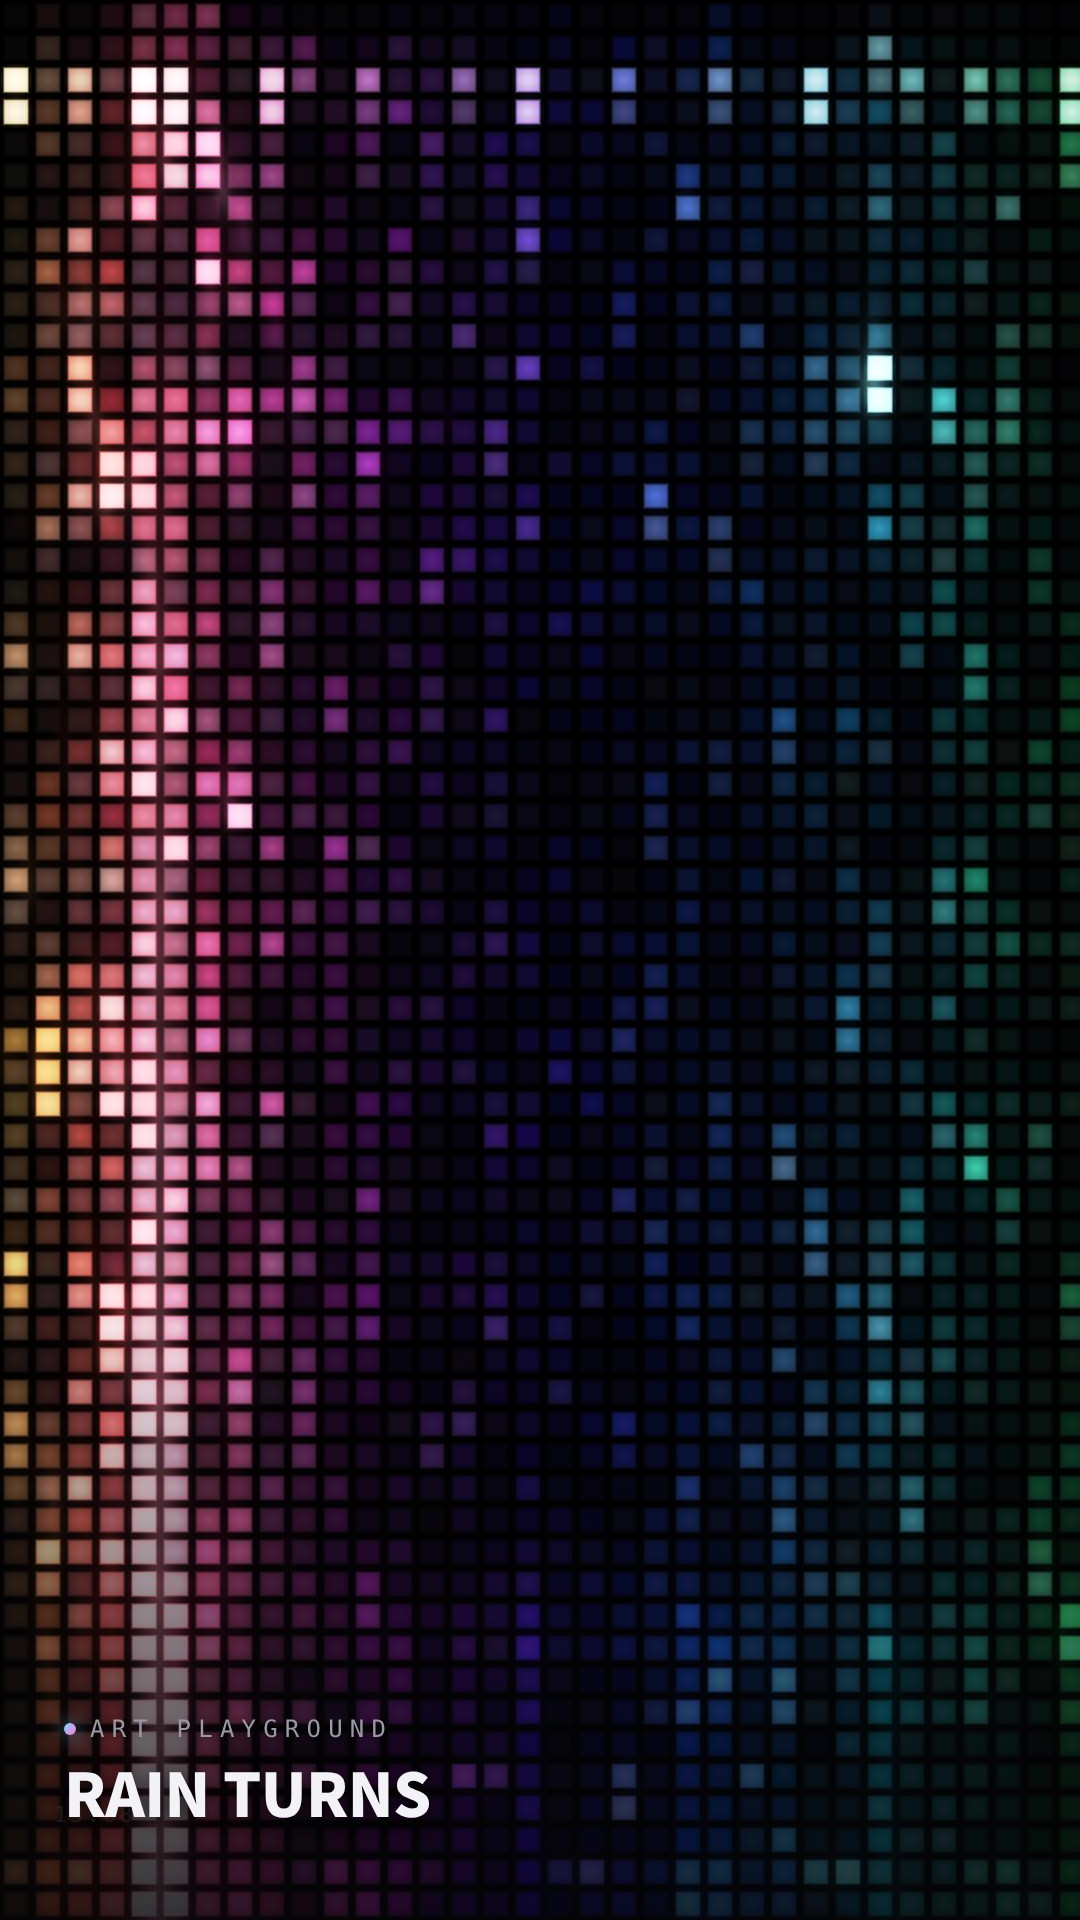
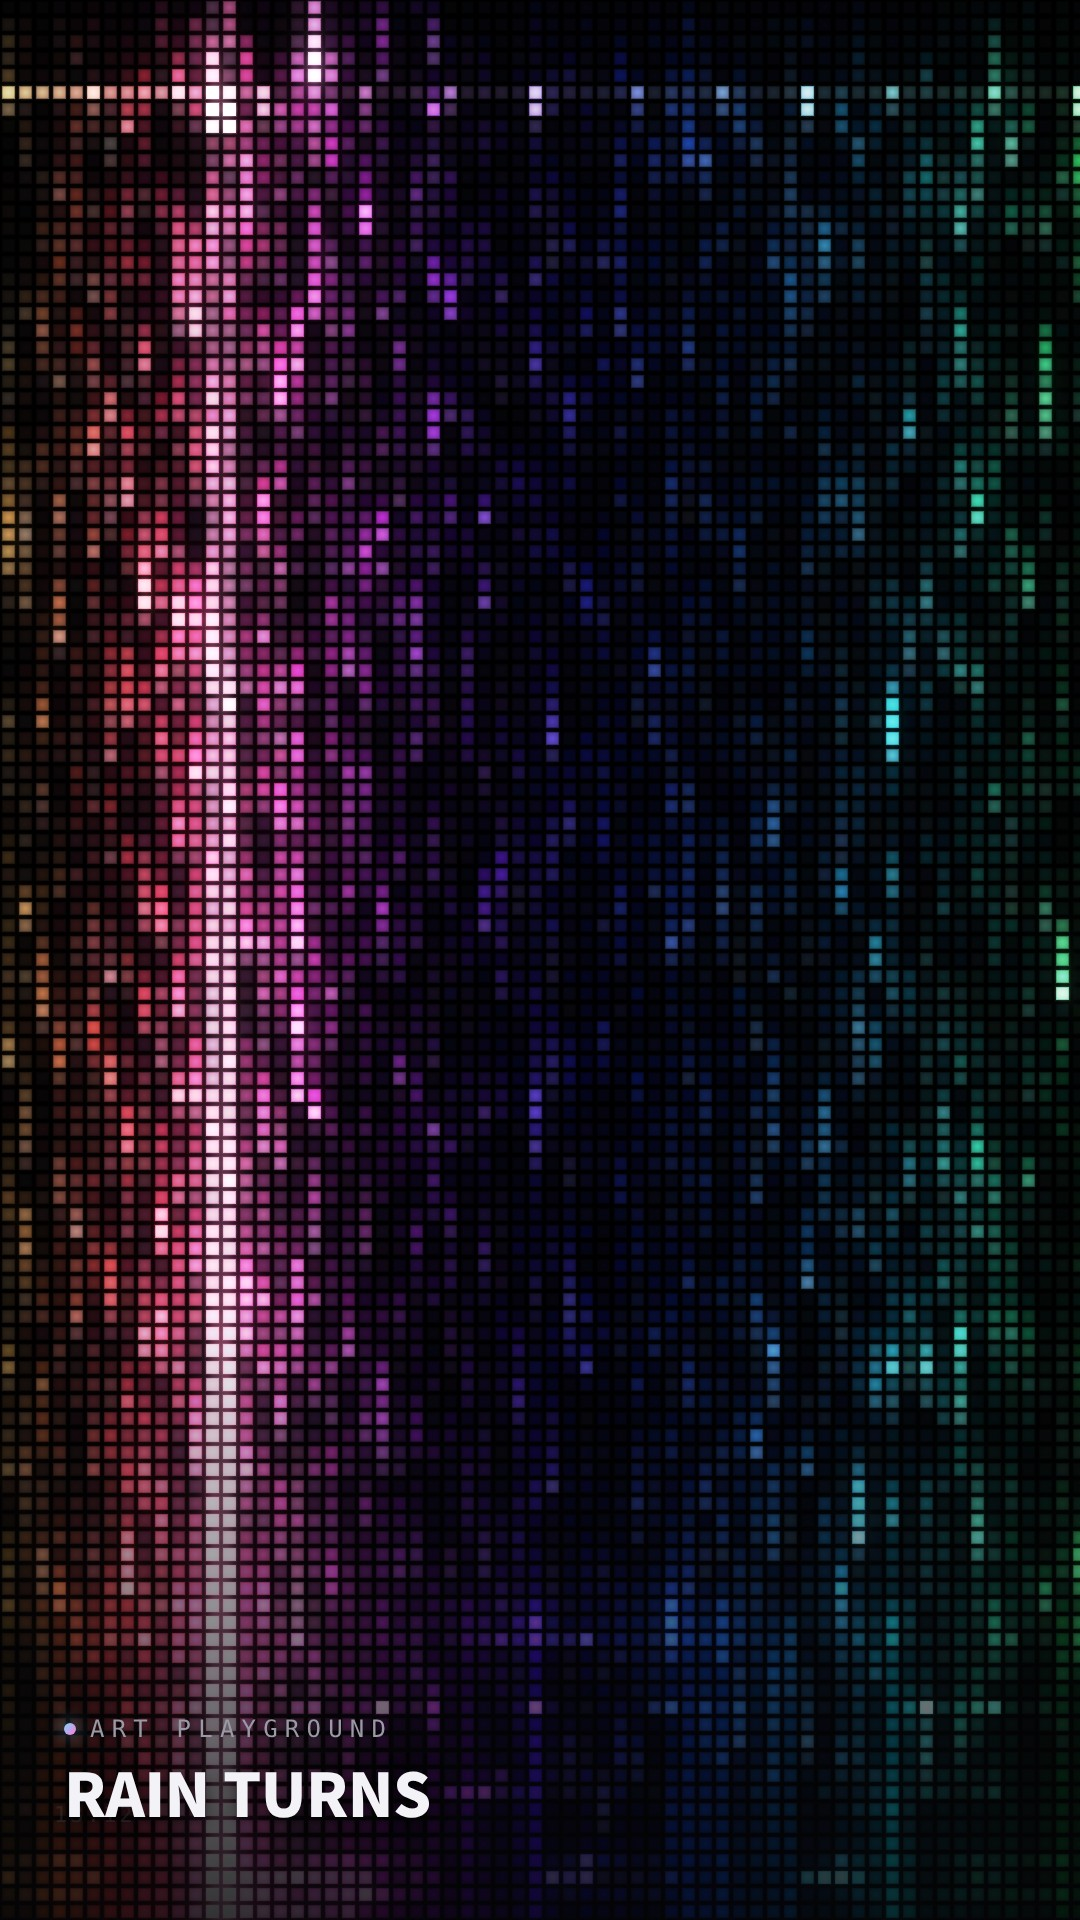
RAIN TURNS: remove dual (composite) grain mode
Restore art-v128-rain-turns.html to the pre-dual version.

Claude-Session: https://claude.ai/code/session_019C65K2NCmDDLr2MsA9MRnb

diff --git a/art-v128-rain-turns.html b/art-v128-rain-turns.html
@@ -198,7 +198,7 @@ FS_HEAD+'uniform sampler2D u_tex;uniform vec2 u_step,u_inv;uniform float u_thr;o
 ' s+=(f(texture(u_tex,uv+u_step*4.).rgb)+f(texture(u_tex,uv-u_step*4.).rgb))*.016;\n'+
 ' o=vec4(s,1.);}');
 var compP=prog('#version 300 es\nlayout(location=0) in vec2 p;void main(){gl_Position=vec4(p,0.,1.);}',
-FS_HEAD+'uniform sampler2D u_a,u_b,u_c,u_m,u_l,u_l2;uniform vec2 u_inv;uniform float u_cell2,u_dual,u_cell,u_led,u_mk,u_hue,u_t,u_mf,u_top,u_px;out vec4 o;\n'+COMMON+
+FS_HEAD+'uniform sampler2D u_a,u_b,u_c,u_m,u_l;uniform vec2 u_inv;uniform float u_cell,u_led,u_mk,u_hue,u_t,u_mf,u_top,u_px;out vec4 o;\n'+COMMON+
 'float hsh(vec2 p){return fract(sin(dot(p,vec2(127.1,311.7)))*43758.5453);}\n'+
 'void main(){vec2 uv=gl_FragCoord.xy*u_inv;\n'+
 ' vec3 c;\n'+
@@ -225,41 +225,28 @@ FS_HEAD+'uniform sampler2D u_a,u_b,u_c,u_m,u_l,u_l2;uniform vec2 u_inv;uniform f
 '  float glow=exp(-dot(f,f)*7.)*.35;\n'+                                          // 一粒ずつのにじみ
 '  c=vq*(led*1.6+glow)*seam+vec3(off*.8,off*.85,off)+texture(u_b,uv).rgb*.45+texture(u_c,uv).rgb*.6;\n'+
 ' }else{float mk=smoothstep(.25,.6,texture(u_m,uv).r)*u_mk;vec3 a=texture(u_a,uv).rgb;float lm=max(max(a.r,a.g),a.b);c=mix(a,vec3(1.,.82,.45)*lm*1.35,mk)+texture(u_b,uv).rgb*.55+texture(u_c,uv).rgb*.8;}\n'+
-' if(u_dual>.5){vec2 cid2=floor(gl_FragCoord.xy/u_cell2);vec2 f2=fract(gl_FragCoord.xy/u_cell2)-.5;vec3 v2=texelFetch(u_l2,ivec2(cid2),0).rgb;\n'+
-'   float d2=max(abs(f2.x),abs(f2.y))*2.;float led2=smoothstep(.86,.62,d2)*(1.+.35*(1.-length(f2)*2.));float glow2=exp(-dot(f2,f2)*7.)*.35;\n'+
-'   vec3 back=v2*(led2*1.6+glow2)*.7;float fl=max(max(c.r,c.g),c.b);c+=back*(1.-clamp(fl*1.3,0.,1.));}\n'+
 ' c=c/(1.+max(c-.8,0.)*.8);o=vec4(c,1.);}');
 // ---------- LEDの粒ごとの明るさ(1粒=1テクセル)。粒の中を9点で拾って平均と最大の間をとり、前のコマから滑らかにつなぐ(点くときは素早く、消えるときは少し残光) ----------
 var cellP=prog('#version 300 es\nlayout(location=0) in vec2 p;void main(){gl_Position=vec4(p,0.,1.);}',
-FS_HEAD+'uniform sampler2D u_a,u_p;uniform vec2 u_inv;uniform vec4 u_xf;uniform float u_cell,u_up,u_dec,u_first,u_rot;out vec4 o;\n'+
+FS_HEAD+'uniform sampler2D u_a,u_p;uniform vec2 u_inv;uniform float u_cell,u_up,u_dec,u_first;out vec4 o;\n'+
 'float hsh(vec2 p){return fract(sin(dot(p,vec2(127.1,311.7)))*43758.5453);}\n'+
-'void main(){vec2 cid=floor(gl_FragCoord.xy);vec2 cc=(cid+.5)*u_cell*u_inv*u_xf.xy+u_xf.zw;vec2 st=u_cell*u_inv*u_xf.xy/3.;\n'+
+'void main(){vec2 cid=floor(gl_FragCoord.xy);vec2 cc=(cid+.5)*u_cell*u_inv;vec2 st=u_cell*u_inv/3.;\n'+
 ' vec3 sm=vec3(0.),mx=vec3(0.);for(int j=-1;j<=1;j++)for(int i=-1;i<=1;i++){vec3 x=texture(u_a,cc+vec2(float(i),float(j))*st).rgb;sm+=x;mx=max(mx,x);}\n'+
 ' vec3 v=mix(sm/9.*1.3,mx,.5);v=pow(max(v-.03,0.),vec3(1.35))*2.2;v*=.92+.16*hsh(cid);\n'+
 ' float lum=max(max(v.r,v.g),v.b);v/=max(lum,1.);\n'+
-' if(abs(u_rot)>.001){vec4 K=vec4(0.,-1./3.,2./3.,-1.);vec4 pp=mix(vec4(v.bg,K.wz),vec4(v.gb,K.xy),step(v.b,v.g));vec4 qq=mix(vec4(pp.xyw,v.r),vec4(v.r,pp.yzx),step(pp.x,v.r));\n'+
-'  float dd=qq.x-min(qq.w,qq.y);vec3 hv=vec3(abs(qq.z+(qq.w-qq.y)/(6.*dd+1e-10)),dd/(qq.x+1e-10),qq.x);\n'+
-'  hv.x=fract(hv.x+u_rot/6.2832);hv.y=max(hv.y,.88);vec3 pq=abs(fract(hv.xxx+vec3(1.,2./3.,1./3.))*6.-3.);v=hv.z*mix(vec3(1.),clamp(pq-1.,0.,1.),hv.y);}\n'+   // 2026/11/28「奥と前で色合いも別に」: 奥の層だけ色相を回す
-
 ' vec3 pv=texelFetch(u_p,ivec2(cid),0).rgb;\n'+
 ' vec3 r=mix(max(v,pv*u_dec),mix(pv,v,u_up),step(pv,v));\n'+
 ' o=vec4(u_first>.5?v:r,1.);}');
-var cellSets=[{rt:null,idx:0,first:true},{rt:null,idx:0,first:true}];   // 0=前(手前の粒)・1=奥(2026/11/28「奥に特大、前に小」)
+var cellRT=null,cellIdx=0,cellFirst=true;
 function mkCellRT(w,h){var t=gl.createTexture();gl.bindTexture(gl.TEXTURE_2D,t);gl.texImage2D(gl.TEXTURE_2D,0,gl.RGBA8,w,h,0,gl.RGBA,gl.UNSIGNED_BYTE,null);
   gl.texParameteri(gl.TEXTURE_2D,gl.TEXTURE_MIN_FILTER,gl.NEAREST);gl.texParameteri(gl.TEXTURE_2D,gl.TEXTURE_MAG_FILTER,gl.NEAREST);
   gl.texParameteri(gl.TEXTURE_2D,gl.TEXTURE_WRAP_S,gl.CLAMP_TO_EDGE);gl.texParameteri(gl.TEXTURE_2D,gl.TEXTURE_WRAP_T,gl.CLAMP_TO_EDGE);
   var f=gl.createFramebuffer();gl.bindFramebuffer(gl.FRAMEBUFFER,f);gl.framebufferTexture2D(gl.FRAMEBUFFER,gl.COLOR_ATTACHMENT0,gl.TEXTURE_2D,t,0);
   gl.bindFramebuffer(gl.FRAMEBUFFER,null);return {t:t,f:f,w:w,h:h};}
-function ensureCellRT(set,cpx){var w=Math.ceil(W/cpx)+1,h=Math.ceil(H/cpx)+1;
-  if(set.rt&&set.rt[0].w===w&&set.rt[0].h===h)return;
-  if(set.rt)set.rt.forEach(function(r){gl.deleteTexture(r.t);gl.deleteFramebuffer(r.f);});
-  set.rt=[mkCellRT(w,h),mkCellRT(w,h)];set.first=true;}
-function runCell(set,cpx,xf,dt,rot){ensureCellRT(set,cpx);var cdst=set.rt[set.idx],csrc=set.rt[1-set.idx];
-  gl.bindFramebuffer(gl.FRAMEBUFFER,cdst.f);gl.viewport(0,0,cdst.w,cdst.h);gl.useProgram(cellP.p);
-  gl.activeTexture(gl.TEXTURE0);gl.bindTexture(gl.TEXTURE_2D,RT.sc.t);gl.uniform1i(cellP.u.u_a,0);
-  gl.activeTexture(gl.TEXTURE1);gl.bindTexture(gl.TEXTURE_2D,csrc.t);gl.uniform1i(cellP.u.u_p,1);
-  gl.uniform2f(cellP.u.u_inv,1/W,1/H);gl.uniform4f(cellP.u.u_xf,xf[0],xf[1],xf[2],xf[3]);gl.uniform1f(cellP.u.u_cell,cpx);gl.uniform1f(cellP.u.u_up,1-Math.exp(-dt*45));gl.uniform1f(cellP.u.u_dec,Math.exp(-dt*11));gl.uniform1f(cellP.u.u_first,set.first?1:0);gl.uniform1f(cellP.u.u_rot,rot||0);
-  gl.drawArrays(gl.TRIANGLE_STRIP,0,4);set.first=false;set.idx=1-set.idx;}
+function ensureCellRT(cpx){var w=Math.ceil(W/cpx)+1,h=Math.ceil(H/cpx)+1;
+  if(cellRT&&cellRT[0].w===w&&cellRT[0].h===h)return;
+  if(cellRT)cellRT.forEach(function(r){gl.deleteTexture(r.t);gl.deleteFramebuffer(r.f);});
+  cellRT=[mkCellRT(w,h),mkCellRT(w,h)];cellFirst=true;}
 function mkRT(w,h){var t=gl.createTexture();gl.bindTexture(gl.TEXTURE_2D,t);gl.texImage2D(gl.TEXTURE_2D,0,gl.RGBA8,w,h,0,gl.RGBA,gl.UNSIGNED_BYTE,null);
   gl.texParameteri(gl.TEXTURE_2D,gl.TEXTURE_MIN_FILTER,gl.LINEAR);gl.texParameteri(gl.TEXTURE_2D,gl.TEXTURE_MAG_FILTER,gl.LINEAR);
   gl.texParameteri(gl.TEXTURE_2D,gl.TEXTURE_WRAP_S,gl.CLAMP_TO_EDGE);gl.texParameteri(gl.TEXTURE_2D,gl.TEXTURE_WRAP_T,gl.CLAMP_TO_EDGE);
@@ -333,11 +320,10 @@ function resize(){var s=dpr*qscale;W=Math.max(2,Math.round(innerWidth*s));H=Math
 addEventListener('resize',resize);resize();
 
 var hueBlk=null,hueT=0,hueV=0,rDir=1,rPh=0,phV=0,phH=0,dirV=1,dirH=1,wH=0,preV=0;var LED=Q.get('led')!=='0';
-var GRAIN=[8.4,12,16,24,4.2,2.1,0,2.1],GNAME=['LEDの粒: 大(約8px)','LEDの粒: 特大(約12px)','LEDの粒: 超特大(約16px)','LEDの粒: 巨大(約24px)','LEDの粒: 中(約4px)','LEDの粒: 小(約2px)','LEDなし(元の描き方)','LEDの粒: 奥=超特大/巨大・前=小か元'],gi=0;   // 2026/11/28「あえて大きくした方がインパクトある」→ 既定は大   // 粒の大きさの見比べ(?cell=4/8/2/0 か下の▦ボタン)
-var dualBack=[16,24].indexOf(+Q.get('back'))>=0?+Q.get('back'):16,dualFront=Q.get('front')==='0'?0:2,dualHue=Q.get('bh')!==null&&!isNaN(+Q.get('bh'))?+Q.get('bh'):150;   // ?bh=奥の色相のずらし(度)。0で前と同じ色   // 二重表示(?cell=dual)の奥の粒の大きさと、前(2=小・0=元)
+var GRAIN=[8.4,12,16,24,4.2,2.1,0],GNAME=['LEDの粒: 大(約8px)','LEDの粒: 特大(約12px)','LEDの粒: 超特大(約16px)','LEDの粒: 巨大(約24px)','LEDの粒: 中(約4px)','LEDの粒: 小(約2px)','LEDなし(元の描き方)'],gi=0;   // 2026/11/28「あえて大きくした方がインパクトある」→ 既定は大   // 粒の大きさの見比べ(?cell=4/8/2/0 か下の▦ボタン)
 var gAuto=true,gOff=0,AUTO_G=[0,1,2,3,5,6];   // 2026/11/28「7分一周はいかんなー」→ 中(4px)を外して6分で1周(1時間でちょうど10周、毎時0分は大から)   // 2026/11/28「2と元も入れてよ」→ 小(2px)とLEDなしも順番に入れる
    // 2026/11/28「1分おきに大きさを自動で変更にして」→ 毎分、大→特大→超特大→巨大→中 の順に粒が変わる(▦で順番を1つ進める)
-(function(){var c=Q.get('cell');if(c!==null){var k={'8':0,'12':1,'16':2,'24':3,'4':4,'2':5,'0':6,'dual':7}[c];if(k!==undefined){gi=k;gAuto=false;}}})();   // LEDパネル表示(?led=0 で元の描き方)
+(function(){var c=Q.get('cell');if(c!==null){var k={'8':0,'12':1,'16':2,'24':3,'4':4,'2':5,'0':6}[c];if(k!==undefined){gi=k;gAuto=false;}}})();   // LEDパネル表示(?led=0 で元の描き方)
 var touch={x:.5,y:.5,s:0,down:false};
 function setT(e){touch.x=e.clientX/innerWidth;touch.y=e.clientY/innerHeight;}
 addEventListener('pointerdown',function(e){if(window.APKit&&APKit.isUI&&APKit.isUI(e.clientX,e.clientY))return;touch.down=true;setT(e);touch.s=1;});
@@ -389,17 +375,19 @@ function frame(now){
   pass(blurP,RT.sc,RT.q1,3/W,0,.15);pass(blurP,RT.q1,RT.q2,0,1.6/RT.q1.h,0);
   pass(blurP,RT.q2,RT.e1,2.2/RT.q2.w,0,0);pass(blurP,RT.e1,RT.e2,0,2.2/RT.e1.h,0);
   var cpx=Math.max(2,Math.round(GRAIN[gi]*W/innerWidth)),useLed=LED&&GRAIN[gi]>0;
-  if(gi===7)useLed=LED&&dualFront>0;var dual=(gi===7)&&LED;   // 奥=大きい粒・前=小(約2px)か元(LEDなし)を同じ画面に重ねる(?cell=dual&back=16|24&front=2|0。2026/11/28「特大と小は要らない」→奥は超特大(16)か巨大(24)だけ)
-  var bcpx=Math.max(2,Math.round(dualBack*W/innerWidth));
-  if(useLed)runCell(cellSets[0],cpx,[1,1,0,0],dt,0);if(dual)runCell(cellSets[1],bcpx,[.82,.82,.09,.04],dt,dualHue?(dualHue+28*Math.sin(t*.16))*Math.PI/180:0);
+  if(useLed){ensureCellRT(cpx);var cdst=cellRT[cellIdx],csrc=cellRT[1-cellIdx];
+    gl.bindFramebuffer(gl.FRAMEBUFFER,cdst.f);gl.viewport(0,0,cdst.w,cdst.h);gl.useProgram(cellP.p);
+    gl.activeTexture(gl.TEXTURE0);gl.bindTexture(gl.TEXTURE_2D,RT.sc.t);gl.uniform1i(cellP.u.u_a,0);
+    gl.activeTexture(gl.TEXTURE1);gl.bindTexture(gl.TEXTURE_2D,csrc.t);gl.uniform1i(cellP.u.u_p,1);
+    gl.uniform2f(cellP.u.u_inv,1/W,1/H);gl.uniform1f(cellP.u.u_cell,cpx);gl.uniform1f(cellP.u.u_up,1-Math.exp(-dt*45));gl.uniform1f(cellP.u.u_dec,Math.exp(-dt*11));gl.uniform1f(cellP.u.u_first,cellFirst?1:0);
+    gl.drawArrays(gl.TRIANGLE_STRIP,0,4);cellFirst=false;cellIdx=1-cellIdx;}
   gl.bindFramebuffer(gl.FRAMEBUFFER,null);gl.viewport(0,0,W,H);gl.useProgram(compP.p);
-  if(useLed){gl.activeTexture(gl.TEXTURE4);gl.bindTexture(gl.TEXTURE_2D,cellSets[0].rt[1-cellSets[0].idx].t);gl.uniform1i(compP.u.u_l,4);}
-  gl.uniform1f(compP.u.u_dual,dual?1:0);if(dual){gl.activeTexture(gl.TEXTURE5);gl.bindTexture(gl.TEXTURE_2D,cellSets[1].rt[1-cellSets[1].idx].t);gl.uniform1i(compP.u.u_l2,5);gl.uniform1f(compP.u.u_cell2,bcpx);}
+  if(useLed){gl.activeTexture(gl.TEXTURE4);gl.bindTexture(gl.TEXTURE_2D,cellRT[1-cellIdx].t);gl.uniform1i(compP.u.u_l,4);}
   gl.activeTexture(gl.TEXTURE0);gl.bindTexture(gl.TEXTURE_2D,RT.sc.t);gl.uniform1i(compP.u.u_a,0);
   gl.activeTexture(gl.TEXTURE1);gl.bindTexture(gl.TEXTURE_2D,RT.q2.t);gl.uniform1i(compP.u.u_b,1);
   gl.activeTexture(gl.TEXTURE2);gl.bindTexture(gl.TEXTURE_2D,RT.e2.t);gl.uniform1i(compP.u.u_c,2);
   gl.activeTexture(gl.TEXTURE3);gl.bindTexture(gl.TEXTURE_2D,maskTex);gl.uniform1i(compP.u.u_m,3);gl.uniform1f(compP.u.u_mk,maskTex?mkS:0);gl.uniform1f(compP.u.u_hue,hueV);gl.uniform1f(compP.u.u_t,t);gl.uniform1f(compP.u.u_mf,um);gl.uniform1f(compP.u.u_top,Math.round(46*W/innerWidth));gl.uniform1f(compP.u.u_px,W/innerWidth);
-  gl.uniform2f(compP.u.u_inv,1/W,1/H);gl.uniform1f(compP.u.u_cell,Math.max(2,Math.round(GRAIN[gi]*W/innerWidth)));gl.uniform1f(compP.u.u_led,useLed?1:0);gl.drawArrays(gl.TRIANGLE_STRIP,0,4);gl.activeTexture(gl.TEXTURE0);
+  gl.uniform2f(compP.u.u_inv,1/W,1/H);gl.uniform1f(compP.u.u_cell,Math.max(2,Math.round(GRAIN[gi]*W/innerWidth)));gl.uniform1f(compP.u.u_led,(LED&&GRAIN[gi]>0)?1:0);gl.drawArrays(gl.TRIANGLE_STRIP,0,4);gl.activeTexture(gl.TEXTURE0);
   frames++;acc+=dt;if(frames===90){if(acc/90>.021&&qscale>.6){qscale*=.85;resize();}frames=0;acc=0;}
   requestAnimationFrame(frame);}
 requestAnimationFrame(function(n){last=n;frame(n);});

diff --git a/CHANGELOG.md b/CHANGELOG.md
@@ -1,3 +1,4 @@
+- 2026-11-28 クロちゃん: RAIN TURNS(art-v128)の二重表示(?cell=dual、奥=超特大/巨大・前=小/元、奥の色ずらし?bh=)を外した(おっちゃん「やっぱり合成は無し」)。art-v128-rain-turns.htmlを二重表示を入れる前の版(1811dd2)に戻しただけで、毎分の自動の順番(6分で1周)と▦ボタンは元のまま。確認: 構文チェック通過、既定表示で録画(mp4)が通る。ポスター・OGPカード・IG縦型カバーを作り直した(art-v128-rain-turns.html, posters/, og/, reel/, CHANGELOG.md)
 - 2026-11-28 クロちゃん: RAIN TURNSの二重表示で、奥と前の色合いを別にした(おっちゃん「奥と前で色合いも別にして欲しいよ」)。奥の層だけ色相を150°ずらし(約40秒かけて±28°ゆっくり揺れる)、彩度は落とさない(最初にRGBの回転で回したら緑〜茶色に濁ったので、HSVで色相だけ回して彩度を最低0.88に)。前が青・紫・ピンクのとき、奥は橙・黄・緑・赤寄りになる。`?bh=度`でずらす量を変えられる(0で前と同じ色)。確認: ヘッドレスChromium・390×844で4通り(超特大/巨大×小/元)を目で確認、コンソールエラーなし、既定表示の録画も通る。ポスター・OGPカード・IG縦型カバーを作り直した。見た目は好みが分かれるので、実機で見て`?bh=`を決める想定。**スマホ実機での重さは未確認**(art-v128-rain-turns.html, posters/, og/, reel/, CHANGELOG.md)
 - 2026-11-28 クロちゃん: RAIN TURNS(art-v128)の二重表示を、超特大(約16px)と巨大(約24px)を奥にして、前に小(約2px)か元(LEDなし)を重ねる4通りに(おっちゃん「超特大と巨大だけに2と元を重ねたパターンも欲しい」→「特大と小は要らない」)。`?cell=dual&back=16|24&front=2|0`(back省略=16、front省略=小)。直前に作った「奥=特大(12px)・前=小」は外した(奥の大きさは16と24だけ)。奥の粒の足し算を、前がLEDの粒でも元の描き方でも効くようにシェーダーの分岐の外へ移した。毎分の自動の順番(6分で1周)と▦ボタンは変えていない。確認: ヘッドレスChromium・390×844で4通りを並べて目で確認、コンソールエラーなし。ポスター・OGPカード・IG縦型カバーを作り直した。**スマホ実機での重さは未確認**(art-v128-rain-turns.html, posters/, og/, reel/, CHANGELOG.md)
 - 2026-11-28 クロちゃん: RAIN TURNS(art-v128)に「奥=特大・前=小」を同じ画面に重ねる粒の表示を追加(おっちゃん「特大と小は同じに描写できる？」→「同じ画面によ、奥に特大、前に小」)。`?cell=dual`で出す。前は小(約2px)の細かい雨、奥は同じ雨を少し拡大してずらし、特大(約12px)の粒で描いて前の雨の暗いところに透ける(前が明るい所は奥を弱める)。目盛り・光の柱・一滴は前の小の粒のもの。cellP(粒ごとの明るさ)に読み取り位置の変換(u_xf)を足し、粒の状態をセット(前・奥)に整理。**毎分の自動の順番(6分で1周)には入れていない**(7分1周がNGなので、どれと入れ替えるかおっちゃんの判断待ち)。▦ボタンの動きも変えていない。確認: ヘッドレスChromium・390×844で、?cell=dualと?cell=2を並べて目で確認、コンソールエラーなし、既定の表示で録画(mp4・720×1558)が通る。ポスター・OGPカード・IG縦型カバーはこの作品の分だけ作り直した。**スマホ実機での重さは未確認**(粒の計算の描画が1回増える。小さな描画先なので軽いはず)(art-v128-rain-turns.html, posters/, og/, reel/, CHANGELOG.md)
